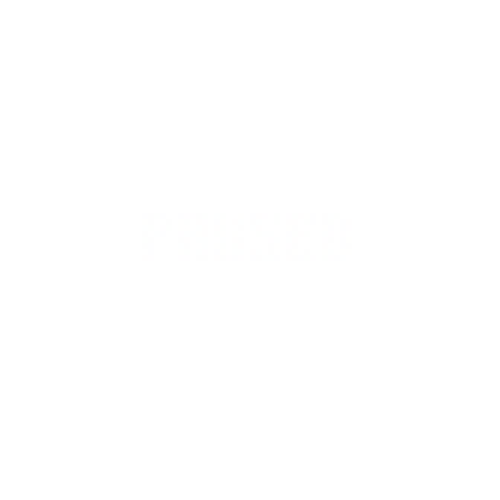
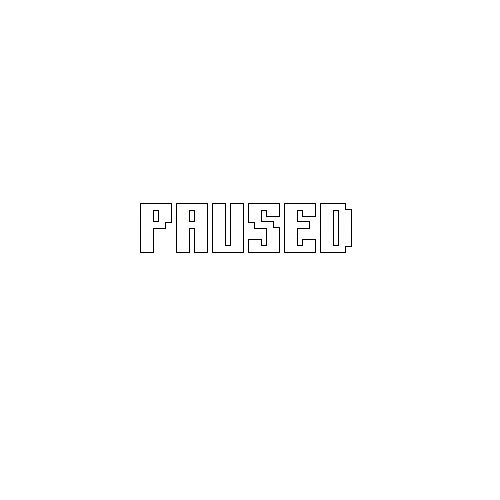
Fix minor bugs, add imgs & updated README

Changed region(s): [[0.3, 0.39, 0.69, 0.51], [0.63, 0.39, 0.66, 0.42]]

diff --git a/pong/lib/pong.rb b/pong/lib/pong.rb
@@ -22,6 +22,7 @@ multi_player = false
 paused = false
 game_reset = false
 level_selected = false
+display_pause = []
 
 # Create game objects
 player = Paddle.new(:left, 5)
@@ -55,8 +56,6 @@ on :key_down do |event|
       ball_velocity = 12
       level_selected = true
     end
-    ball = Ball.new(ball_velocity)
-    ball_trajectory = BallTrajectory.new(ball)
   end
   # Multi player mode
   if multi_player
@@ -71,8 +70,6 @@ on :key_down do |event|
       ball_velocity = 20
       level_selected = true
     end
-    ball = Ball.new(ball_velocity)
-    ball_trajectory = BallTrajectory.new(ball)
   end
   # Reset game
   if event.key == 'escape'
@@ -105,8 +102,15 @@ on :key_down do |event|
     game_reset = true
   end
   # Pause game
+  pause_image = Image.new('img/paused.png', x: 0, y: 0, width: Window.width, height: Window.height, z: 1)
   if event.key == 'space'
     paused = !paused
+    display_pause << event.key
+    if display_pause.length.odd?
+      pause_image.add
+    elsif display_pause.length.even?
+      pause_image.remove
+    end
   end
 end
 

diff --git a/pong/lib/display.rb b/pong/lib/display.rb
@@ -8,7 +8,6 @@ class Display
     @level = create_image('img/level.png', 0, 0, Window.width, Window.height, -1)
     @speed = create_image('img/speed.png', 0, 0, Window.width, Window.height, -2)
     @win = create_image('img/win.png', -30, -999, 400, 400, 10)
-    @paused = create_image('img/paused.png', 0, -999, Window.width, Window.height, 1)
     @score_left = create_text("#{player_score}", 230, 5, 50, 'bold', 'white')
     @score_right = create_text("#{opponent_score}", 400, 5, 50, 'bold', 'white')
   end

diff --git a/pong/lib/dividing_line.rb b/pong/lib/dividing_line.rb
@@ -7,7 +7,7 @@ class DividingLine
   
     def draw
       NUMBER_OF_LINES.times do |i|
-        Rectangle.new(x: (Window.width + WIDTH) / 2, y: ((Window.height + 10) / NUMBER_OF_LINES) * i, height: HEIGHT, width: WIDTH, color: 'white')
+        Rectangle.new(x: Window.width / 2, y: ((Window.height + 10) / NUMBER_OF_LINES) * i, height: HEIGHT, width: WIDTH, color: 'white')
       end
     end
   end

diff --git a/pong/lib/ball.rb b/pong/lib/ball.rb
@@ -8,7 +8,7 @@ class Ball
 
   def initialize(speed)
     @x = 320
-    @y = rand(100..500)
+    @y = rand(100..400)
     @speed = speed
     @y_velocity = speed
     @x_velocity = [-speed, speed].sample

diff --git a/pong/README.md b/pong/README.md
@@ -1,7 +1,7 @@
 # PONG
 Written with the AWESOME [ruby2d](http://www.ruby2d.com/) framework
 
-![PONG]()
+![PONG](lib/img/pong.gif)
 
 ## Goals
 
